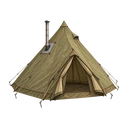
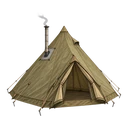
キャンプギア8点の作り直し版を組み込み
- DCFテント・薪ストーブ用テント(ストーブ口あり・煙突なし)・DCFタープ(平たい形)をマップ用に差し替え
- 煙突はストーブ口の位置からコードで描く（冬に薪ストーブを装備したときだけ）。前の重ね絵は削除
- 店のアイコン4種（薪ストーブ・DCFテント・薪ストーブ用テント・DCFタープ）を届いた絵に差し替え

Claude-Session: https://claude.ai/code/session_01LKZuxmUryB2MHNBxvpT9B1

Changed region(s): [[0.0312, 0.125, 0.9688, 0.9062], [0.4375, 0.4375, 0.4688, 0.4688]]

diff --git a/index.html b/index.html
@@ -658,20 +658,20 @@ function renderMap(){const svg=$('map');const mk=JSON.stringify([S.loc,S.sel,S.v
   s+=top;
   const SPR={"tarp_tp2":[565,199],"shelter_sh2":[355,185],"bike_gravel":[190,144],"bike_cross":[185,142],"bike_road":[176,136],"fire_fire3":[480,470],"bike_mama":[162,126],"fire_fire2":[241,200],"tarp_tp1":[476,166],"shelter_sh3":[560,401],"bike_tigrav":[194,122],"tarp_tp3":[760,586],"shelter_sh1":[481,185],"bike_mtb":[202,134],"camp_ground":[451,193],"fire_fire1":[197,153],"bike_fold":[143,124],"tree_spring":[256,338],"tree_summer":[256,338],"tree_autumn":[256,338],"tree_winter":[256,338],"part_tripod":[128,128],"part_cam":[128,128],"part_drone":[128,128],"part_comfy":[128,128]};
   // 新しいギアの絵が届くまでの代用：近い既存の絵を使い、DCFは薄いグリーンに寄せる。絵が届いたら STAND から外し、SPR に寸法を足す
-  Object.assign(SPR,{shelter_sh4:[700,406],shelter_sh5:[700,558],shelter_sh5_chim:[700,558],tarp_tp4:[800,437]});// 新しい絵の寸法（DCFテント・薪ストーブ用テント本体と煙突・DCFタープ）
+  Object.assign(SPR,{shelter_sh4:[700,381],shelter_sh5:[700,474],tarp_tp4:[800,248]});// 新しい絵の寸法（DCFテント・薪ストーブ用テント本体と煙突・DCFタープ）
   const put=(key,cx,by,k)=>{const d=SPR[key];if(!d)return '';const w=d[0]*k,hh=d[1]*k;return `<image href="img/${key}.webp" x="${(cx-w/2).toFixed(1)}" y="${(by-hh).toFixed(1)}" width="${w.toFixed(1)}" height="${hh.toFixed(1)}"/>`;};
   // 配置の決まり（重なり順・位置）は、近い既存のものと同じにする（DCFテント＝入門テント、薪ストーブ用テント＝山岳テント、DCFタープ＝ヘキサ）。大きさと接地は新しい絵に合わせて個別に決める
   const A_SH={sh4:'sh2',sh5:'sh3'},A_TP={tp4:'tp2'};const shA=A_SH[S.gear.shelter]||S.gear.shelter,tpA=A_TP[S.gear.tarp]||S.gear.tarp;
   // 山岳テントの絵は下端に杭・ガイロープが長く伸びていて、本体の底が下端より約8単位上にある。入門テント(約3単位)と地面の高さを揃えるため下げる
-  const SH3_DROP=4,fk={fire1:.115,fire2:.115,fire3:.085,fire4:0},sk={sh1:.165,sh2:.16,sh3:.085,sh4:.08,sh5:.0657},tk={tp1:.27,tp2:.215,tp3:.125,tp4:.17};
-  const DROP={sh2:0,sh3:SH3_DROP,sh4:4,sh5:.5};// タープは寝床（特にハンモックの杭の間）を覆える幅にする
+  const SH3_DROP=4,fk={fire1:.115,fire2:.115,fire3:.085,fire4:0},sk={sh1:.165,sh2:.16,sh3:.085,sh4:.08,sh5:.0743},tk={tp1:.27,tp2:.215,tp3:.125,tp4:.18};
+  const DROP={sh2:0,sh3:SH3_DROP,sh4:3.7,sh5:.1};// タープは寝床（特にハンモックの杭の間）を覆える幅にする
   // 山岳テントは背が高く、そのままだとタープの屋根を突き抜ける。テントごとにタープの大きさ・位置を決める [scale, 接地のy]
   // 接地yを413にして、タープのポールの根元をテントの前の地面に出す（403だとポールがテントの床に刺さって見える）
-  const PB=(437-235)*.17;// DCFタープの絵：ポールの根元から絵の下端まで（単位）
-  const TARP_FIT={sh3:{tp1:[.30,413],tp2:[.30,413],tp3:[.175,420,20],tp4:[.17,413+PB]},sh2:{tp1:[.27,413],tp2:[.215,413],tp3:[.175,420,20],tp4:[.17,413+PB]}};const tf=(S.gear.tarp&&TARP_FIT[shA]&&(TARP_FIT[shA][S.gear.tarp]||TARP_FIT[shA][tpA]))||[tk[S.gear.tarp]||tk[tpA],403+(S.gear.tarp==='tp4'?PB:0),0];// [scale, 接地y, 横ずれ]
+  const PB=(248-178)*.18,PX=-23*.18;// DCFタープの絵：ポールの根元から絵の下端まで／ポールが絵の中央からずれている分（単位）
+  const TARP_FIT={sh3:{tp1:[.30,413],tp2:[.30,413],tp3:[.175,420,20],tp4:[.18,413+PB,PX]},sh2:{tp1:[.27,413],tp2:[.215,413],tp3:[.175,420,20],tp4:[.18,413+PB,PX]}};const tf=(S.gear.tarp&&TARP_FIT[shA]&&(TARP_FIT[shA][S.gear.tarp]||TARP_FIT[shA][tpA]))||[tk[S.gear.tarp]||tk[tpA],403+(S.gear.tarp==='tp4'?PB:0),S.gear.tarp==='tp4'?PX:0];// [scale, 接地y, 横ずれ]
   // 大型タープ＋テントのときは、テントをさらにタープの奥（地図の上側）に置く
   const hasTent=shA==='sh2'||shA==='sh3';
-  const UK={sh2:[.16,392],sh3:[.1,397],sh4:[.08,396],sh5:[.077,393]};// 大型タープの奥に置くときの [大きさ, 接地y]
+  const UK={sh2:[.16,392],sh3:[.1,397],sh4:[.08,395.7],sh5:[.0877,392.9]};// 大型タープの奥に置くときの [大きさ, 接地y]
   const UNDER=tpA==='tp3'&&hasTent?{x:264,by:UK[S.gear.shelter][1],k:UK[S.gear.shelter][0]}:null;
   // 簡易・ヘキサタープの下では、テントの底の線を約3.3単位下げる（タープの脚の接地線に近づける）
   const TENT_LOW=hasTent&&(tpA==='tp1'||tpA==='tp2')?3.3:0;
@@ -696,12 +696,13 @@ function renderMap(){const svg=$('map');const mk=JSON.stringify([S.loc,S.sel,S.v
 function zzzFx(ty,dx=0){return `<g id="zzz" style="display:none;pointer-events:none"><text class="zq" x="${258+dx}" y="${ty+6}" style="font-size:9px">Z</text><text class="zq zq2" x="${265+dx}" y="${ty}" style="font-size:7px">z</text><text class="zq zq3" x="${271+dx}" y="${ty-6}" style="font-size:5.5px">z</text></g>`;}
 // テントの手前に重ねるタープの部分（元の絵の座標 [x0,x1,y0,y1]、絵のサイズ）
 //  ヘキサ(tp2)：中央ポール x=245〜259。簡易(tp1)：屋根の明るい面 y=0〜53（濃い帯＝屋根の裏側はテントの奥のまま）
-const TARP_FRONT={tp1:{size:[476,166],r:[0,476,0,53]},tp2:{size:[565,199],r:[245,259,0,199]},tp4:{size:[800,437],r:[396,414,0,236]}};
+const TARP_FRONT={tp1:{size:[476,166],r:[0,476,0,53]},tp2:{size:[565,199],r:[245,259,0,199]},tp4:{size:[800,248],r:[417,429,0,178]}};
 function tarpPart(key,cx,by,k){const f=TARP_FRONT[key],w=f.size[0]*k,hh=f.size[1]*k,x=cx-w/2,y=by-hh,r=f.r;
   return `<clipPath id="tpart"><rect x="${(x+r[0]*k).toFixed(1)}" y="${(y+r[2]*k).toFixed(1)}" width="${((r[1]-r[0])*k).toFixed(1)}" height="${((r[3]-r[2])*k).toFixed(1)}"/></clipPath><image href="img/tarp_${key}.webp" x="${x.toFixed(1)}" y="${y.toFixed(1)}" width="${w.toFixed(1)}" height="${hh.toFixed(1)}" clip-path="url(#tpart)"/>`;}
-// 薪ストーブ用テントの煙突（絵の重ね絵）と煙。煙突の頂部は、絵の上端から約5px（700×558の絵の x=243）
-function chimney(tx,by,k,put){const pipe=put('shelter_sh5_chim',tx,by,k);
-  const sx=tx-700*k/2+243*k,sy=by-558*k+3*k-1;
+// 薪ストーブ用テントの煙突と煙。煙突は、屋根のストーブ口（絵の x=281,y=120）から立てる
+function chimney(tx,by,k,put){const px=tx-700*k/2+281*k,py=by-474*k+120*k,h=15,w=2.6;
+  const pipe=`<g class="chim"><defs><linearGradient id="pg" x1="0" x2="1"><stop offset="0" stop-color="#3d4148"/><stop offset=".45" stop-color="#a3aab3"/><stop offset="1" stop-color="#33373d"/></linearGradient></defs><ellipse cx="${px}" cy="${py}" rx="${w*.9}" ry="1.1" fill="#25282d"/><rect x="${px-w/2}" y="${py-h}" width="${w}" height="${h}" fill="url(#pg)" stroke="#1f2226" stroke-width=".35"/><path d="M${px-w*.95} ${py-h} l${w*.95} -2.2 l${w*.95} 2.2z" fill="#2a2d33" stroke="#1f2226" stroke-width=".3"/></g>`;
+  const sx=px,sy=py-h-3;
   const smoke=`<g id="smoke" style="pointer-events:none"><defs><radialGradient id="smg"><stop offset="0" stop-color="#ffffff" stop-opacity="1"/><stop offset=".6" stop-color="#e3e7eb" stop-opacity=".85"/><stop offset="1" stop-color="#c2c9d0" stop-opacity="0"/></radialGradient></defs><circle class="sm sm1" cx="${sx}" cy="${sy}" r="2.6"/><circle class="sm sm2" cx="${sx}" cy="${sy}" r="3.2"/><circle class="sm sm3" cx="${sx}" cy="${sy}" r="3.8"/><circle class="sm sm4" cx="${sx}" cy="${sy}" r="4.2"/></g>`;
   return {pipe,smoke};}
 // ハンモックで寝るとき、寝袋の下半分を手前の布で隠す（同じ絵を、布の手前側だけ切り抜いてキャラの上に重ねる）
@@ -773,7 +774,7 @@ function renderList(){$('sitelist').innerHTML=PREF.map(p=>`<button data-id="${p.
 function owns(kind,id){return S.owned[kind==='bike'?'bikes':kind==='cloth'?'cloth':kind==='gear'?'gear':'parts'].includes(id);}
 function isEq(kind,item){return kind==='bike'?S.bike===item.id:kind==='cloth'?S.cloth===item.id:kind==='gear'?S.gear[item.slot]===item.id:S.parts.includes(item.id);}
 // 新しいギアの絵が届くまでは、近い既存のアイコンを代わりに表示する（読み込みに失敗したときだけ切り替わる）
-const ICON_FB={fire4:'icon_g_fire3'};
+const ICON_FB={};
 addEventListener('error',e=>{const i=e.target;if(i&&i.tagName==='IMG'&&i.dataset&&i.dataset.fb){const f='img/'+i.dataset.fb+'.webp';i.dataset.fb='';i.src=f;}},true);
 function card(item,kind,mode){const eq=isEq(kind,item),own=owns(kind,item.id);
   const spec=kind==='bike'?`登坂${bv(item,'climb')} 悪路${bv(item,'rough')} 巡航${bv(item,'cruise')} 耐候${bv(item,'wx')}${item.fold?' 輪行半額':''}`:
